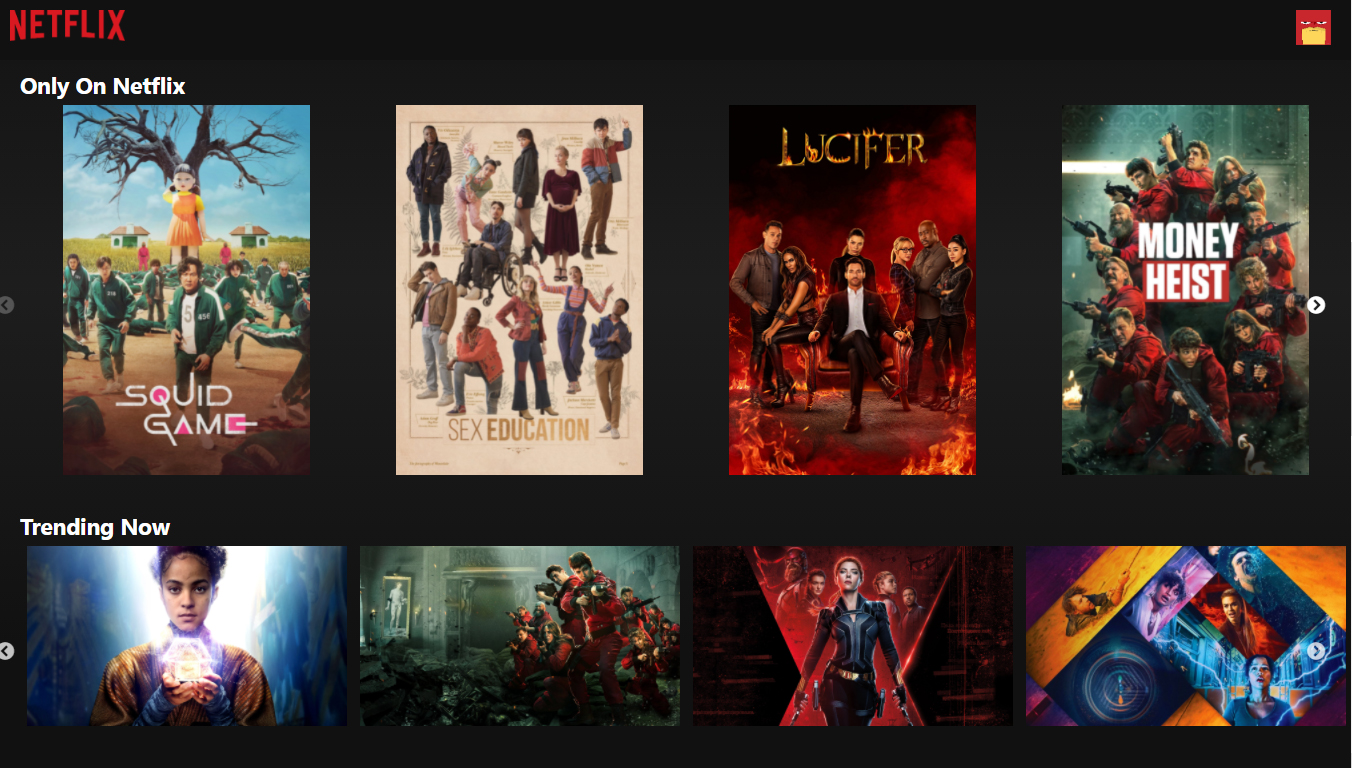
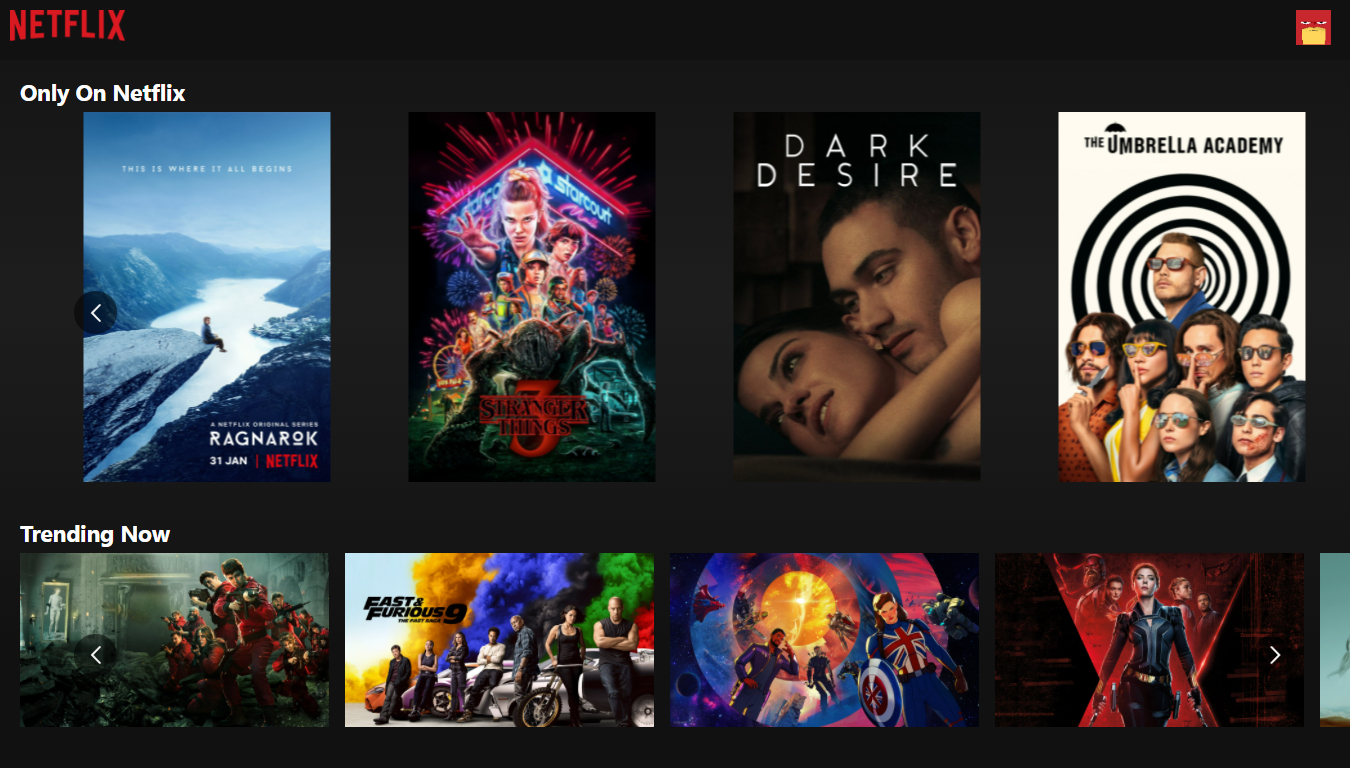
added responsive UI for mobile devices, fixed #2

diff --git a/src/Row.js b/src/Row.js
@@ -1,11 +1,10 @@
 import React, { useState,useEffect} from 'react';
 import axios from './axios'
 import "./Row.css"
-import Slider from "react-slick";
-import "slick-carousel/slick/slick.css";
-import "slick-carousel/slick/slick-theme.css";
+import Carousel from "react-multi-carousel";
+import "react-multi-carousel/lib/styles.css";
 
-const base_url = "https://image.tmdb.org/t/p/original/"
+const base_url = "https://image.tmdb.org/t/p/original"
 
 function Row({title, fetchUrl, isLargeRow}) {
     const [movies, setMovies] = useState([]);
@@ -15,60 +14,52 @@ function Row({title, fetchUrl, isLargeRow}) {
             const request = await axios.get(fetchUrl);
             setMovies(request.data.results);
             return request;
-        }
-        fetchData();
+          }      
+    fetchData(); 
     }, [fetchUrl]);
 
-    var settings = {
-      dots: true,
-      infinite: false,
-      speed: 500,
-      slidesToShow: 4,
-      slidesToScroll: 4,
-      initialSlide: 0,
-      responsive: [
-        {
-          breakpoint: 1024,
-          settings: {
-            slidesToShow: 3,
-            slidesToScroll: 3,
-            infinite: true,
-          },
-        },
-        {
-          breakpoint: 600,
-          settings: {
-            slidesToShow: 2,
-            slidesToScroll: 2,
-            initialSlide: 2,
-          },
-        },
-        {
-          breakpoint: 480,
-          settings: {
-            slidesToShow: 1,
-            slidesToScroll: 1,
-          },
-        },
-      ],
+    const responsive = {
+      desktop: {
+        breakpoint: { max: 2024, min: 800 },
+        items: 4.1,
+        slidesToSlide: 4, 
+      },
+      tablet: {
+        breakpoint: { max: 800, min: 464 },
+        items: 3.1,
+        slidesToSlide: 3, 
+      },
+      mobile: {
+        breakpoint: { max: 464, min: 0 },
+        items: 2.1,
+        slidesToSlide: 2,
+      },
     };
-
-     return(        
-         <div className="row">
-            <h2>{title}</h2>
-             <div className="row_posters">
-                <Slider {...settings}>
-                    {movies.map(movie => {
-                        return(
-                    <img
-                    key={movie.id}
-                    className={`row_poster ${isLargeRow &&  "row_posterLarge"}`}
-                    src={`${base_url}${isLargeRow ? movie.poster_path :movie.backdrop_path}`} alt={movie.name}/>
-                    )})}
-                </Slider>
-            </div>
-        </div>
-    )
+  
+     return (
+       <div className="row">
+         <h2>{title}</h2>
+         <div className="row_posters">
+           <Carousel
+             swipeable={true}
+             draggable={false}
+             responsive={responsive}
+             minimumTouchDrag={10}
+             removeArrowOnDeviceType='mobile'>
+             {movies.map((movie) => {
+               return (
+                 <img
+                   key={movie.id}
+                   className={`row_poster ${isLargeRow && "row_posterLarge"}`}
+                   src={`${base_url}${isLargeRow ? movie.poster_path : movie.backdrop_path}`}
+                   alt={movie.name}
+                 />
+               );
+             })}
+           </Carousel>
+         </div>
+       </div>
+     );
 }
 
 export default Row

diff --git a/src/Row.css b/src/Row.css
@@ -9,11 +9,13 @@
   object-fit: contain;
   width: 100%;
   max-height: 180px;
+  max-width: 95%;
   margin-right: 10px;
   transition: 450ms;
   padding-bottom: 32px;
   padding-top: 5px;
 }
+
 
 .row_poster:hover {
   transform: scale(1.08);
@@ -27,15 +29,4 @@
 .row_posterLarge:hover {
   transform: scale(1.09);
   opacity: 1;
-}
-
-.slick-arrow.slick-next{
-    right: 25px;
-    z-index: 4;
-} 
-
-@media (max-width: 768px){
-  .slick-arrow {
-      display: none!important;
-  }
 }

diff --git a/src/App.js b/src/App.js
@@ -4,7 +4,6 @@ import Row from './Row';
 import requests from './requests';
 import Banner from "./Banner";
 import Nav from "./Nav";
-
 function App() {
   return (
     <div className="app">

diff --git a/README.md b/README.md
@@ -3,6 +3,9 @@
 <img src="./demo-images/image2.jpg" alt="screenshot2"><hr/>
 <img src="./demo-images/image3.jpg" alt="screenshot3"><hr/>
 <img src="./demo-images/image4.jpg" alt="screenshot4"><hr/>
+<img src="./demo-images/mobileview1.jpg" alt="screenshot5">
+<img src="./demo-images/mobileview1.jpg" alt="screenshot6">
+<hr/>
 # Getting Started with Create React App
 
 This project was bootstrapped with [Create React App](https://github.com/facebook/create-react-app).
